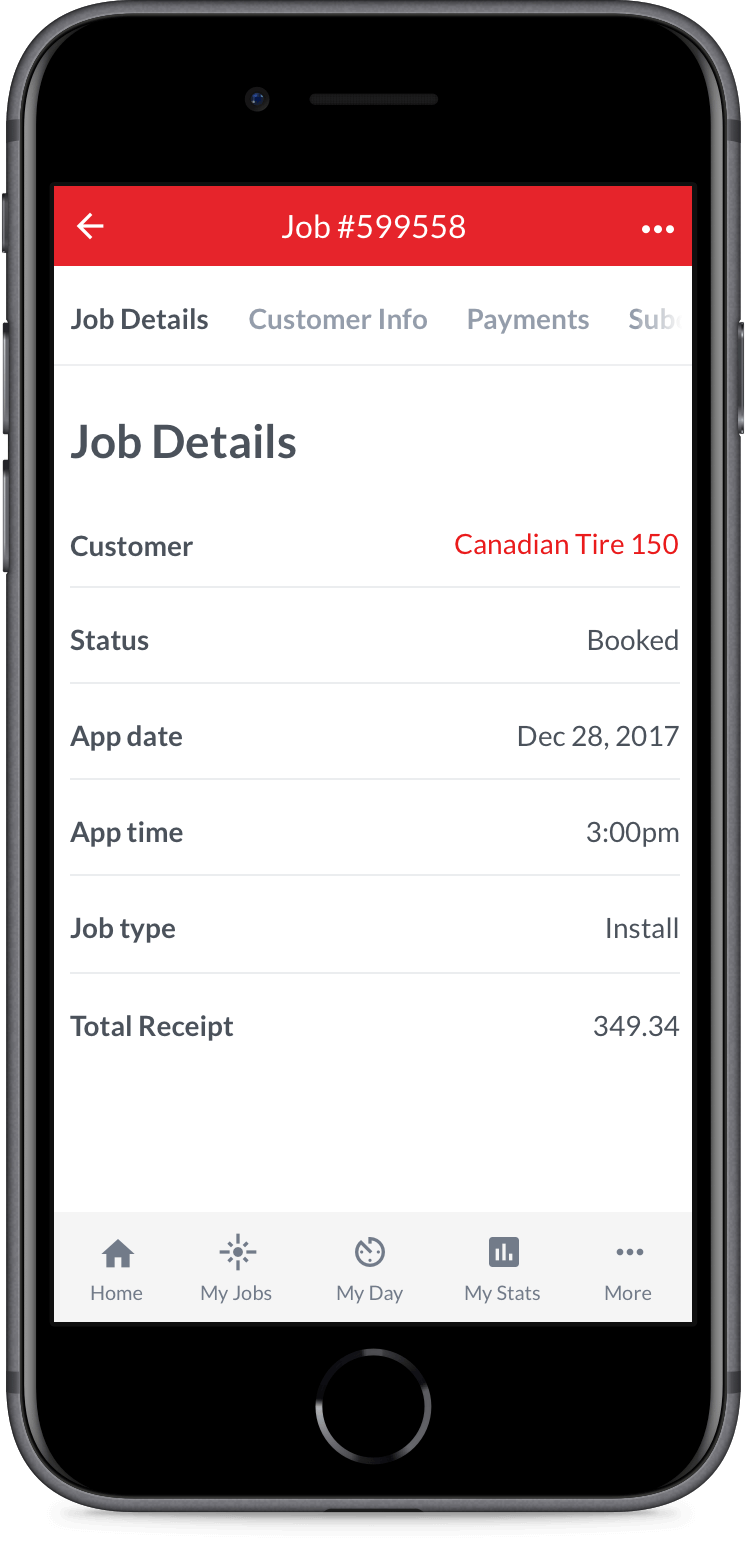
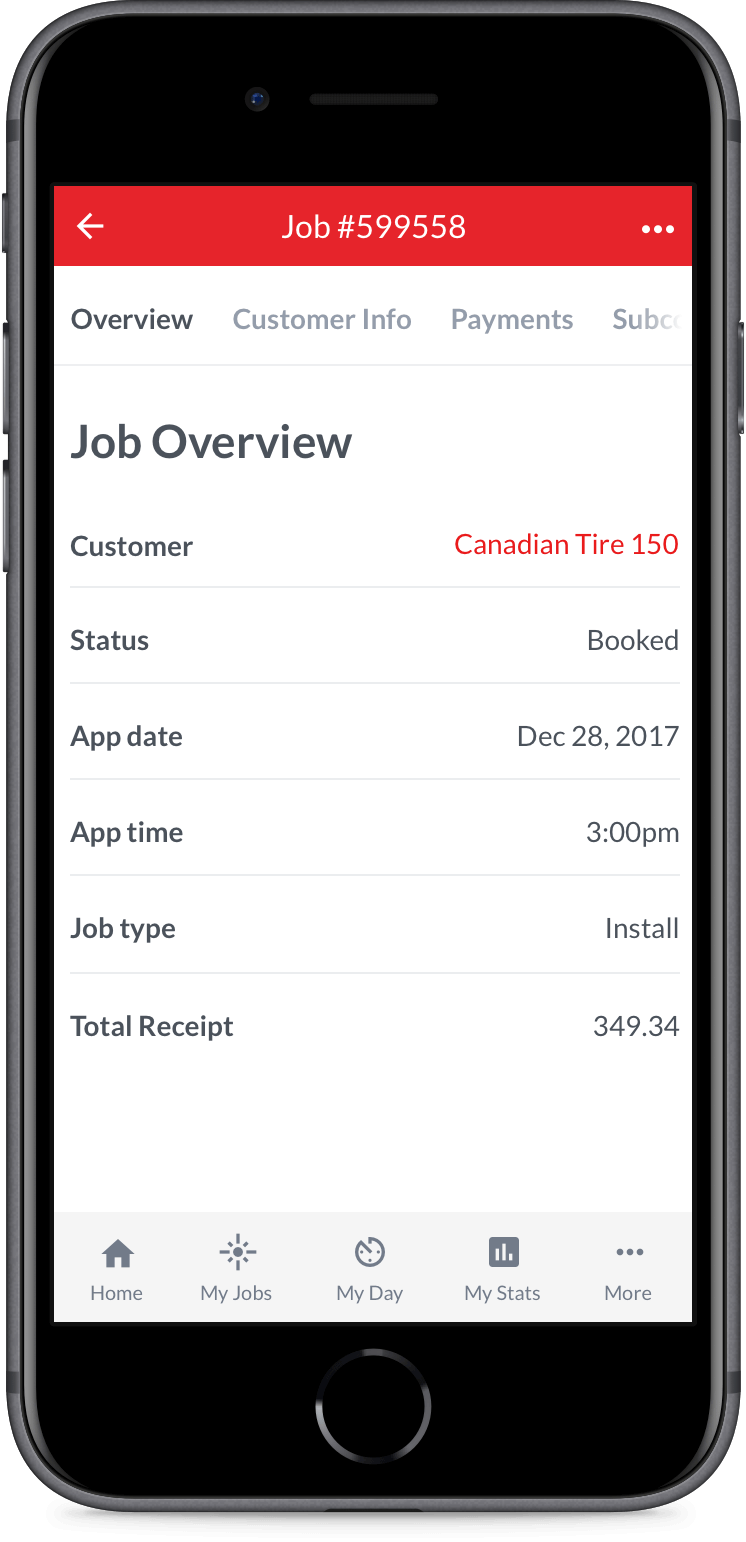
Update text and screenshots

diff --git a/projects/quickcontractors.html b/projects/quickcontractors.html
@@ -51,42 +51,48 @@ light_header: true
 <section class="project--centered">
   <div class="project__description">
     <h3 class="project__name">
-    App Home
+    Quick Task App
     </h3>
     <p class="project__body">
-      Try the <a href="https://goo.gl/g4HPam" target="_blank">prototype</a>
+      We redesigned the Quick Task app to give contractors get the best possible experience. We made global search persistent on all screens, we focused on showing &lsquo;New Jobs&rsquo; up front so contractors see them as soon as possible, and we simplified the navigation to make getting around easier than ever. <a href="https://goo.gl/g4HPam" target="_blank">Try the prototype</a>
     </p>    
   </div>
   <div class="project__image">
-    <img src="/assets/img/projects/quickcontractors/app-home.png" alt="Quick Contractors mobile app mockup" class="device--mobile responsive-image">
+    <a href="https://goo.gl/g4HPam" target="_blank">
+      <img src="/assets/img/projects/quickcontractors/app-home.png" alt="Quick Contractors mobile app mockup" class="device--mobile responsive-image">
+    </a>
   </div>
 </section>
 
 <section class="project--centered">
   <div class="project__description">
     <h3 class="project__name">
-    App Jobs
+    My Jobs
     </h3>
     <p class="project__body">
-      Try the <a href="https://goo.gl/g4HPam" target="_blank">prototype</a>
+      Previously known as the &lsquo;Dashboard&rsquo;, the &lsquo;My Jobs&rsquo; redesign gives users the ability to see what&rsquo;s happening with their jobs faster than ever. Less clicks and more information upfront. <a href="https://goo.gl/g4HPam" target="_blank">Try the prototype</a>
     </p> 
   </div>
   <div class="project__image">
-    <img src="/assets/img/projects/quickcontractors/app-my-jobs.png" alt="Quick Contractors mobile app mockup" class="device--mobile responsive-image">
+    <a href="https://goo.gl/g4HPam" target="_blank">
+      <img src="/assets/img/projects/quickcontractors/app-my-jobs.png" alt="Quick Contractors mobile app mockup" class="device--mobile responsive-image">
+    </a>
   </div>
 </section>
 
 <section class="project--centered has-no-padding-bottom">
   <div class="project__description">
     <h3 class="project__name">
-    App Single Job
+    Single Job
     </h3>
     <p class="project__body">
-      Try the <a href="https://goo.gl/g4HPam" target="_blank">prototype</a>
+      The redesigned Job screen makes understanding the status of a job easier than ever. We broke down the information into multiple tabs and created the &lsquo;Overview&rsquo; screen, which gives you a quick snapshot of all the most important information in one place. <a href="https://goo.gl/g4HPam" target="_blank">Try the prototype</a>
     </p> 
   </div>
   <div class="project__image">
-    <img src="/assets/img/projects/quickcontractors/app-single-job.png" alt="Quick Contractors mobile app mockup" class="device--mobile responsive-image">
+    <a href="https://goo.gl/g4HPam" target="_blank">
+      <img src="/assets/img/projects/quickcontractors/app-single-job.png" alt="Quick Contractors mobile app mockup" class="device--mobile responsive-image">
+    </a>
   </div>
 </section>
 
